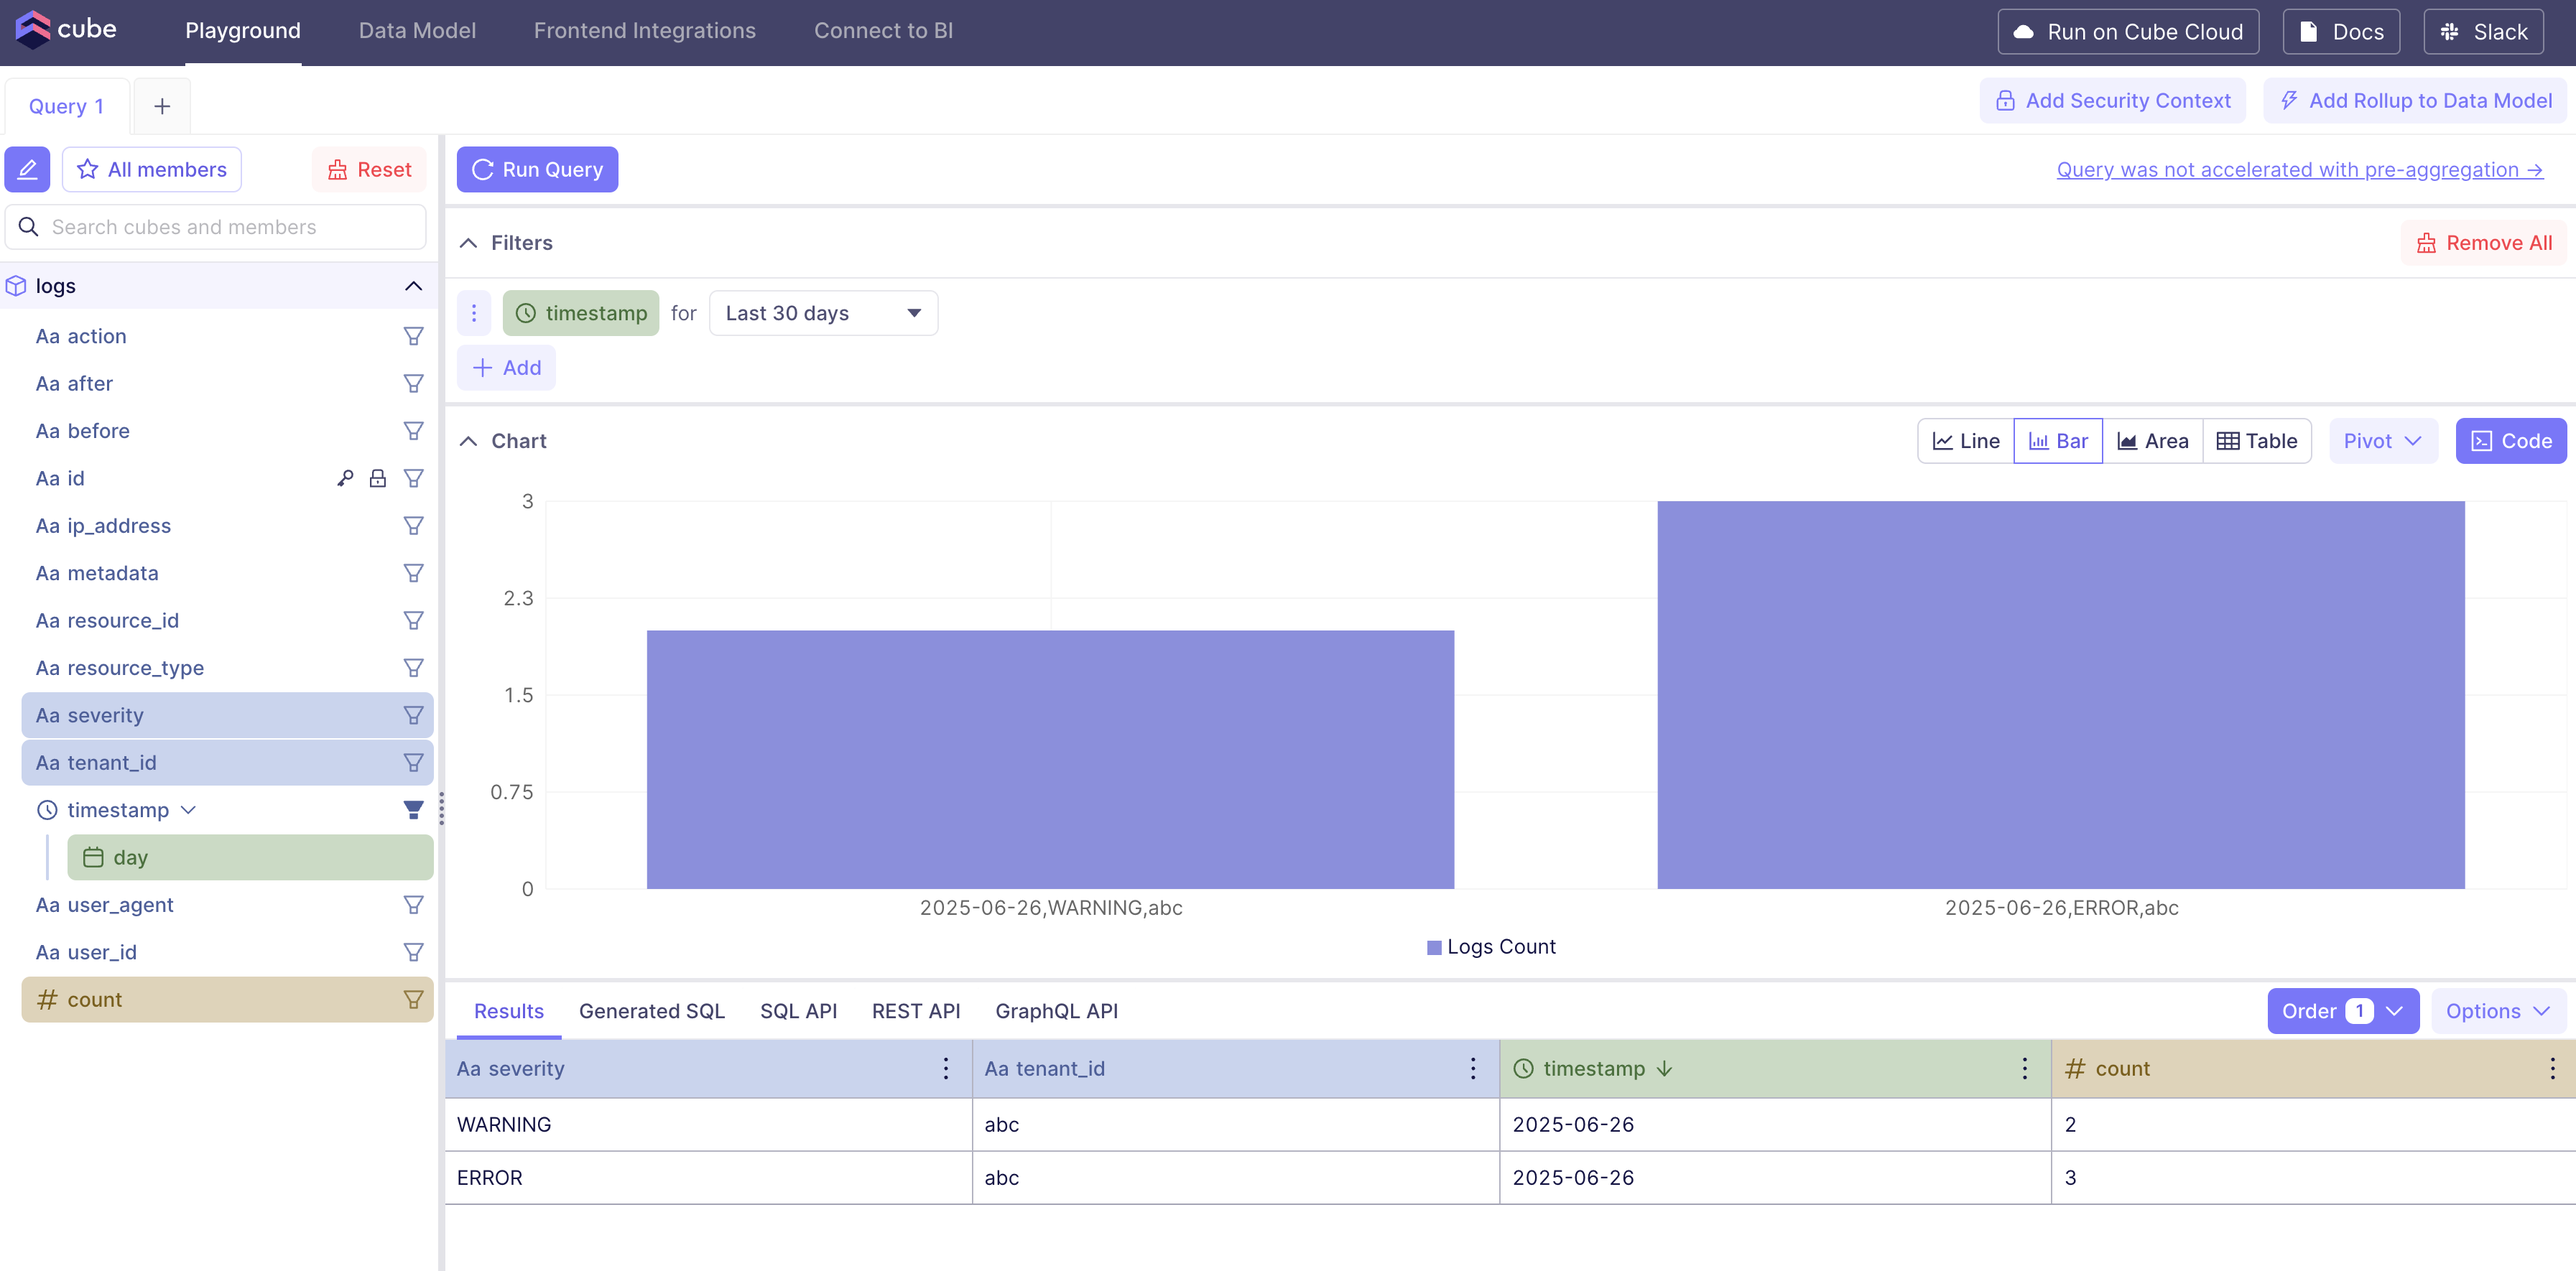
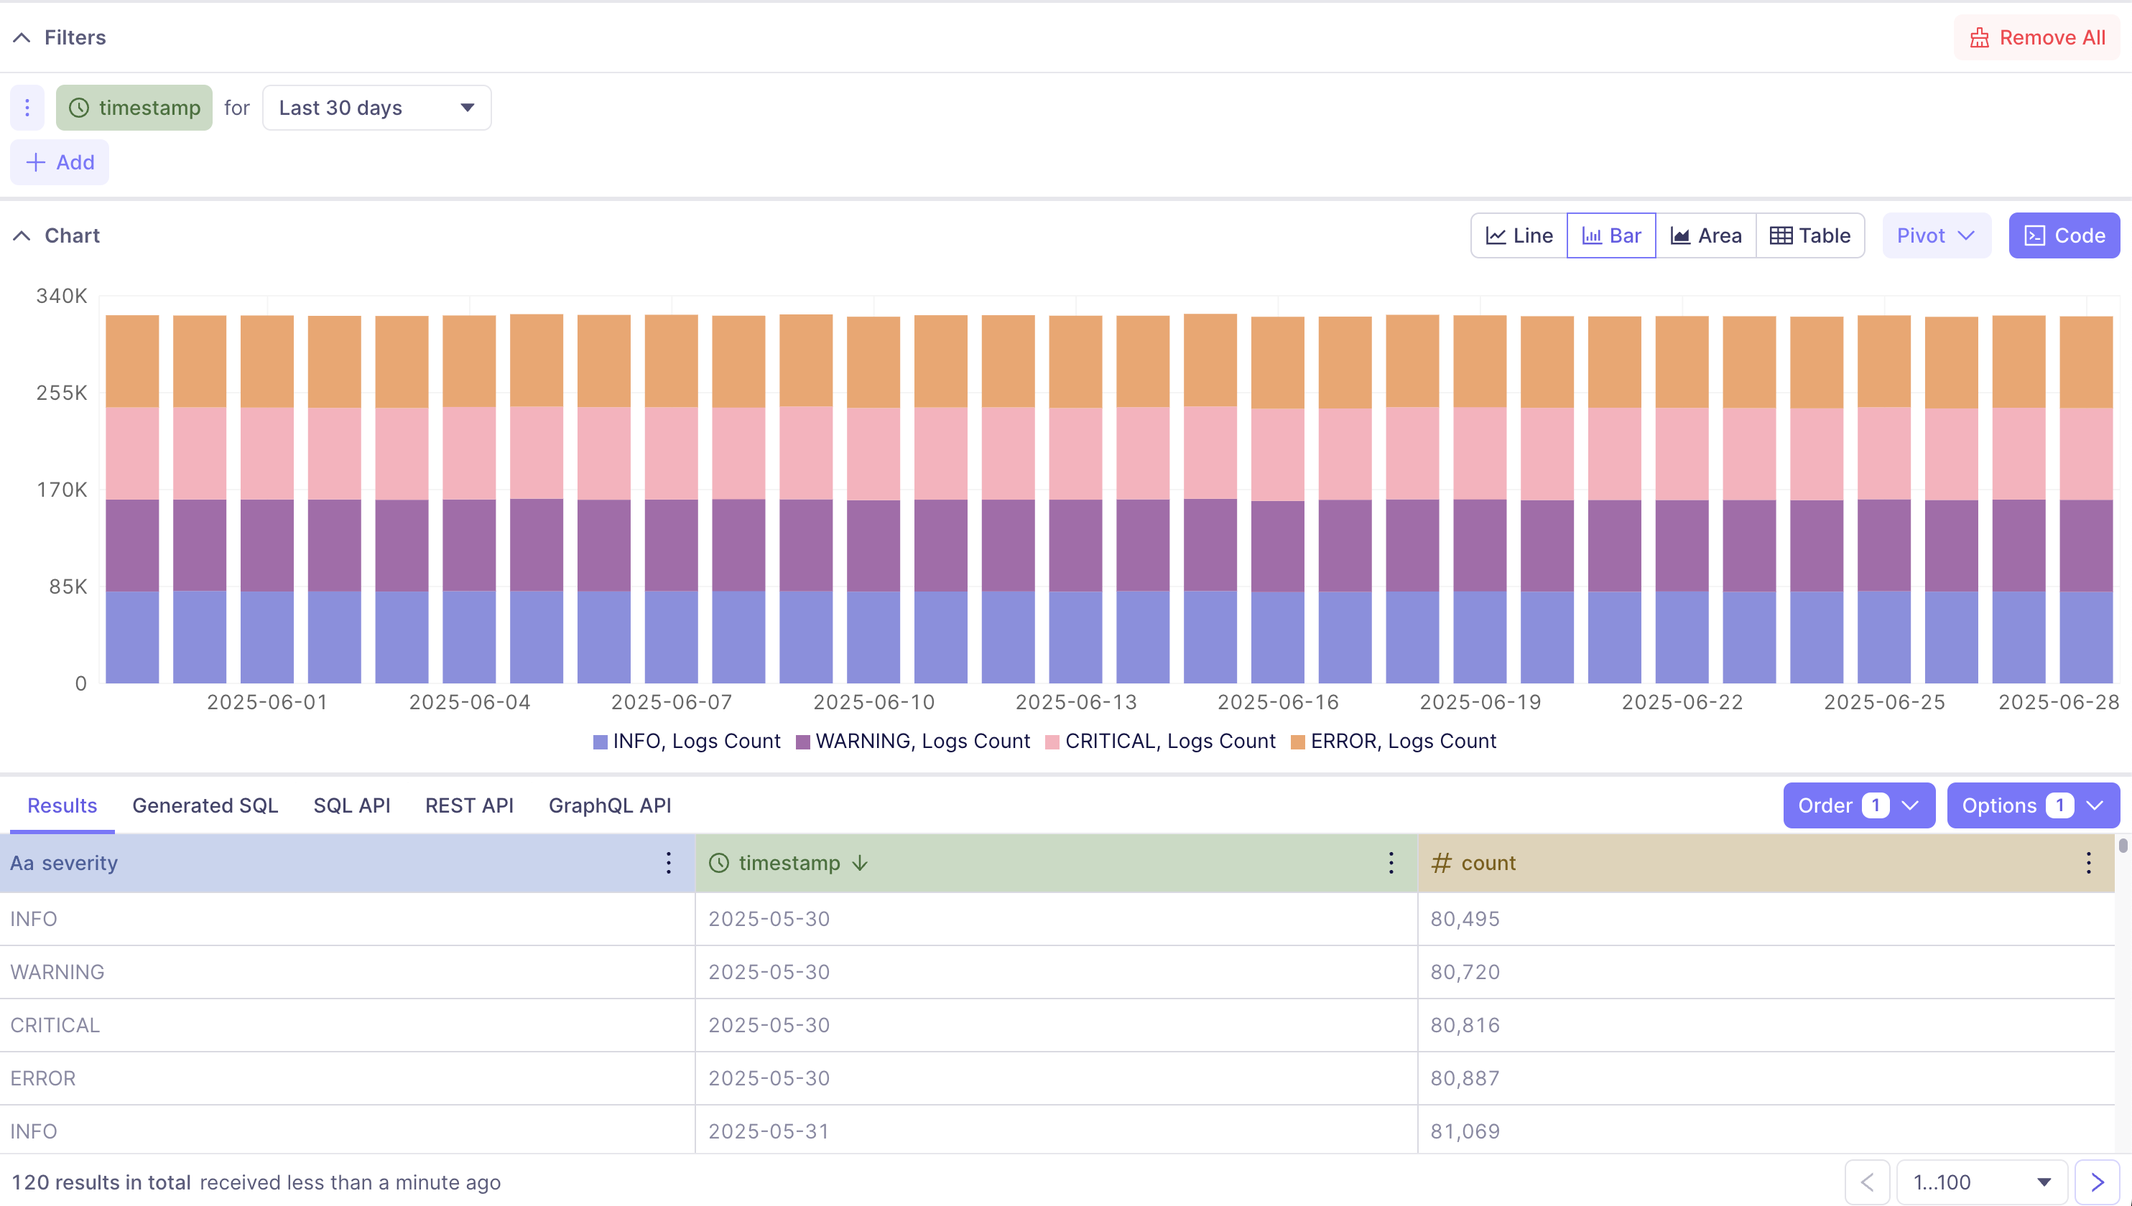
chore: update readme images

diff --git a/scripts/gen_clickhouse_data.py b/scripts/gen_clickhouse_data.py
@@ -1,0 +1,30 @@
+import uuid
+import random
+from datetime import datetime, timedelta
+from tqdm import tqdm
+
+ROWS = 10_000_000
+OUTFILE = "logs.csv"
+SEVERITIES = ["INFO", "WARNING", "ERROR", "CRITICAL"]
+
+def random_date():
+    return (datetime.utcnow() - timedelta(days=random.randint(0, 30))).strftime("%Y-%m-%d %H:%M:%S")
+
+with open(OUTFILE, "w") as f:
+    for _ in tqdm(range(ROWS), desc="Generating"):
+        row = ",".join([
+            str(uuid.uuid4()),
+            "abc",
+            str(random.randint(0, 999)),
+            "login",
+            "user",
+            str(uuid.uuid4()),
+            random_date(),
+            f"192.168.1.{random.randint(0, 255)}",
+            "Mozilla/5.0",
+            "", "", "",  # before, after, metadata
+            random.choice(SEVERITIES)
+        ])
+        f.write(row + "\n")
+
+print(f"✅ Done: {ROWS} rows written to {OUTFILE}")

diff --git a/README.md b/README.md
@@ -238,13 +238,8 @@ Contributions welcome — Happy Coding! 😊
 
 ```json
 {
-  "measures": [
-    "logs.count"
-  ],
-  "dimensions": [
-    "logs.severity",
-    "logs.tenant_id"
-  ],
+  "measures": ["logs.count"],
+  "dimensions": ["logs.severity"],
   "timeDimensions": [
     {
       "dimension": "logs.timestamp",
@@ -254,6 +249,12 @@ Contributions welcome — Happy Coding! 😊
   ],
   "order": {
     "logs.timestamp": "asc"
+  },
+  "pivotConfig": {
+    "x": ["logs.timestamp.day"],
+    "y": ["logs.severity"],
+    "fillMissingDates": true,
+    "joinDateRange": false
   }
 }
 ```
@@ -262,3 +263,4 @@ Contributions welcome — Happy Coding! 😊
 - It works perfectly with [CubeJS](https://cube.dev/) [pre-aggregations](https://cube.dev/docs/pre-aggregations/introduction) for high-performance analytics.
 
 👉 [See this public demo of querying 1 billion rows](https://play.clickhouse.com/play?file=billion-row-log-query) using ClickHouse.
+
